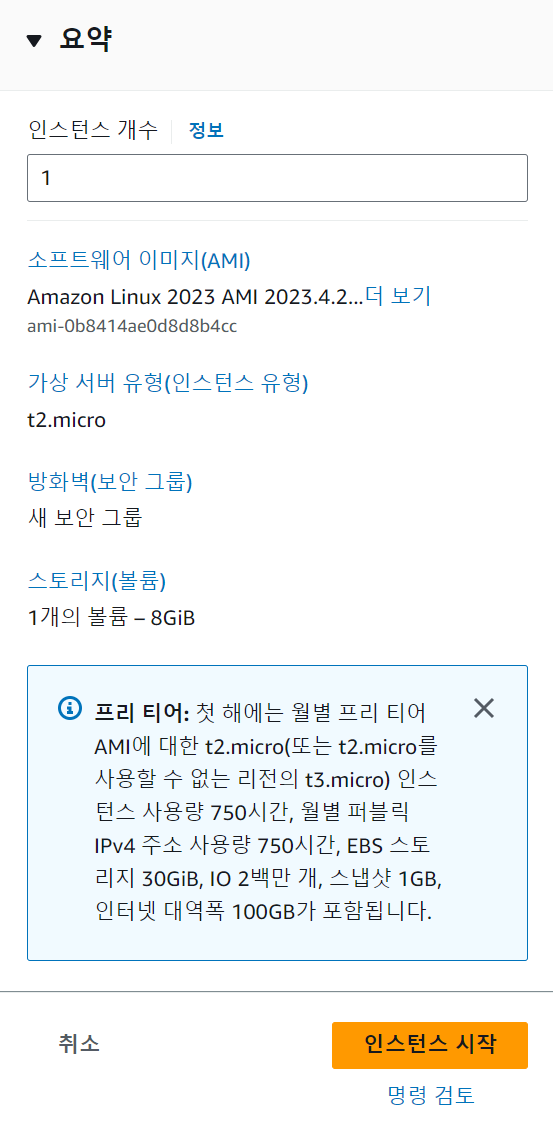
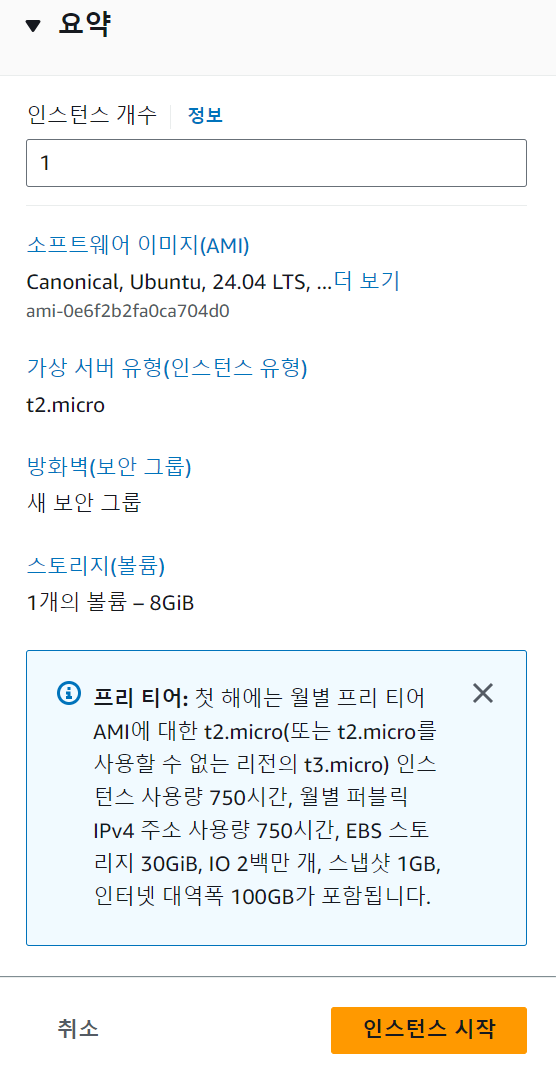
240607 [Add] Add cicd posts

diff --git a/_posts/cicd/docker/2024-06-07-docker_github_action.md b/_posts/cicd/docker/2024-06-07-docker_github_action.md
@@ -1,10 +1,218 @@
 ---
-title: Docker - Docker와 ec2로 스프링부트 자동배포
-date: 2024-06-07 09:25:00 +09:00
+title: Docker - GitAction과 Docker를 이용한 Spring Boot EC2 자동 배포
+date: 2024-06-07 12:00:00 +09:00
 categories: [CI/CD, Docker]
 tags:
-  [ CI/CD, Docker, AWS EC2, Spring Boot ]
+  [ CI/CD, Docker, AWS EC2, Spring Boot, Git Action ]
 ---
 
+## Ⅰ. Docker 레포지토리 생성
 
+도커 이미지를 빌드하고 ec2 서버로 가져오기 위해 docker hub 레포지토리를 생성
 
+### 1. 레포지토리 생성 버튼 클릭
+
+![01](/assets/img/post/cicd/docker/docker_githubactions/01.png)
+
+### 2. 레포지토리 이름 입력
+
+![02](/assets/img/post/cicd/docker/docker_githubactions/02.png)
+
+### 3. 레포지토리 생성 학인
+
+![03](/assets/img/post/cicd/docker/docker_githubactions/03.png)
+
+---
+<br>
+
+## Ⅰ. EC2 서버 세팅
+
+### 1. EC2 인스턴스 생성
+
+인스턴스 생성은 아래 포스트를 참고
+
+[AWS EC2 인스턴스 생성](https://koneweekk.github.io/posts/ec2_instance/)
+
+---
+
+### 2. Docker 설치
+
+Docker 사용을 위해 서버에 Docker를 설치
+
+- apt-get 업데이트
+
+```
+sudo apt-get update
+```
+
+- 도커 설치
+
+```
+sudo apt-get install docker.io
+```
+
+- 도커 실행
+
+```
+sudo service docker start
+```
+
+---
+
+### 3. 인바운드 포트 열어주기
+
+인스턴스가 활용 중인 보안 그룹으로 접근
+
+![05](/assets/img/post/cicd/docker/docker_githubactions/05.png)
+
+![04](/assets/img/post/cicd/docker/docker_githubactions/04.png)
+
+외부에서 서버에서 접근을 허용해주기 위해 ssh 포트와 스프링부트 실행 포트를 인바운드 포트에 추가
+
+![06](/assets/img/post/cicd/docker/docker_githubactions/06.png)
+
+---
+<br>
+
+## Ⅲ. Git Actions 세팅
+
+### 1. 깃액션 설정 yml 생성
+
+루트폴더/.github/workflows 경로에 yml 파일 생성
+
+```yml
+{% raw %}
+name: Java CI with Gradle
+
+# 동작 조건 설정 : main 브랜치에 push 혹은 pull request가 발생할 경우 동작한다.
+on:
+  push:
+    branches: [ "main" ]
+  pull_request:
+    branches: [ "main" ]
+
+permissions:
+  contents: read
+
+jobs:
+  # Spring Boot 애플리케이션을 빌드하여 도커허브에 푸시하는 과정
+  build-docker-image:
+    runs-on: ubuntu-latest
+    steps:
+    - uses: actions/checkout@v3
+
+    # Java 17 세팅
+    - name: Set up JDK 17
+      uses: actions/setup-java@v3
+      with:
+        java-version: '17'
+        distribution: 'temurin'
+    
+    # properties 파일 생성
+    - name: Make application.properties
+      run: |
+          cd ./src/main/resources
+          touch ./application.properties
+          echo "${{ secrets.PROPERTIES }}" > ./application.properties
+      shell: bash
+
+    # Spring Boot 애플리케이션 빌드
+    - name: Build with Gradle
+      uses: gradle/gradle-build-action@67421db6bd0bf253fb4bd25b31ebb98943c375e1
+      with:
+        arguments: clean bootJar
+
+    # Docker 이미지 빌드
+    - name: docker image build
+      run: docker build -t ${{ secrets.DOCKER_USERNAME }}/${{ secrets.DOCKER_REPO }} .
+
+    # DockerHub 로그인
+    - name: docker login
+      uses: docker/login-action@v2
+      with:
+        username: ${{ secrets.DOCKER_USERNAME }}
+        password: ${{ secrets.DOCKER_PASSWORD }}
+
+    # Docker Hub 이미지 푸시
+    - name: docker Hub push
+      run: docker push ${{ secrets.DOCKER_USERNAME }}/${{ secrets.DOCKER_REPO }}
+
+    # ec2 서버에 도커 컨테이너 실행
+    - name: Image pull and run
+      uses: appleboy/ssh-action@master
+      with:
+        host: ${{ secrets.EC2_HOST }}
+        username: ${{ secrets.EC2_USERNAME }}
+        key: ${{ secrets.EC2_KEY }}
+        port: ${{ secrets.EC2_SSH_PORT }}
+        script: |
+          sudo docker login -u ${{ secrets.DOCKER_USERNAME }} -p ${{ secrets.DOCKER_PASSWORD }}
+          sudo docker stop ${{ secrets.DOCKER_CONTAINER }}
+          sudo docker container rm ${{ secrets.DOCKER_CONTAINER }}
+          sudo docker image rm ${{ secrets.DOCKER_USERNAME }}/${{ secrets.DOCKER_REPO }}
+          sudo docker pull ${{ secrets.DOCKER_USERNAME }}/${{ secrets.DOCKER_REPO }}
+          sudo docker run -d --name ${{ secrets.DOCKER_CONTAINER }} -p ${{ secrets.DOCKER_PORT }}:${{ secrets.DOCKER_PORT }} ${{ secrets.DOCKER_USERNAME }}/${{ secrets.DOCKER_REPO }}
+{% endraw %}
+```
+
+push 혹은 pull request시 실행되는 프로세스들을 정의
+- 스프링 프로젝트 빌드
+- docker 이미지 빌드
+- docker hub에 이미지 푸쉬
+- ec2 서버에 도커 허브로부터 이미지를 불러와 도커 컨테이너 실행
+
+---
+
+### 2. Git Secret 설정
+
+위 코드의 이중괄호 안에 쓰인 `secrets.변수명`의 값들은 깃헙 SECRET에서 설정을 해줘야한다.
+
+![07](/assets/img/post/cicd/docker/docker_githubactions/07.png)
+
+![08](/assets/img/post/cicd/docker/docker_githubactions/08.png)
+
+#### PROPERTIES
+
+스프링부트의 application.properties 파일의 내용을 말한다.
+- 설정 파일의 특성상 보안이 중요한 내용도 추가되므로 secret에 접근하여 파일 생성
+- `echo` 명령어는 덮어쓰기이기 때문에 모든 코드를 붙여넣어야한다.
+
+#### DOCKER 관련 설정들
+
+`DOCKER_USERNAME` : Docker 로그인 시 사용자명
+
+`DOCKER_PASSWORD` : Docker 로그인 시 비밀번호
+
+`DOCKER_REPO` : 푸쉬하고자 하는 도커 허브 레포지토리, 아까 생성한 레포지토리 이름을 입력하면 된다.
+
+`DOCKER_CONTAINER` : ec2에서 실행될 도커 컨테이너의 이름
+
+`DOCKER_PORT` : 도커 컨테이너로 접근할 수 있는 포트 번호, 앞에서 인바운드로 열어준 포트번호를 입력
+
+#### EC2 관련 설정
+
+`EC2_HOST` : ec2 인스턴스의 ip주소를 입력
+
+![09](/assets/img/post/cicd/docker/docker_githubactions/09.png)
+
+`EC2_USERNAME` : ec2 인스턴스의 사용자명, AMI로 ubuntu를 선택했다면 기본값은 ubuntu
+
+![10](/assets/img/post/cicd/docker/docker_githubactions/10.png)
+
+`EC2_KEY` : ssh 보안 키를 입력. 다운받은 .pem 파일을 메모장으로 열어서 '모든 내용'을 복붙하면 된다.
+
+`EC2_SSH_PORT` : ssh 연결 포트. 보통은 22 이다.
+
+---
+
+### 3. 배포 확인
+
+이제 변경된 내용을 git push 해보자
+
+![11](/assets/img/post/cicd/docker/docker_githubactions/11.png)
+
+위와 같이 나오면 빌드가 성공된 것이다.
+
+![12](/assets/img/post/cicd/docker/docker_githubactions/12.png)
+
+ec2의 ip주소와 설정한 포트로 접근하면 컨트롤러에 설정해놓은 홈화면이 잘 뜨는 것을 확인할 수 있다.

diff --git a/_posts/cicd/aws/2024-06-07-ec2_instance.md b/_posts/cicd/aws/2024-06-07-ec2_instance.md
@@ -16,13 +16,9 @@ tags:
 
 ### 2. AMI(Amazon Machine Image) 선택
 
-- 이 글에선 Amazon Linux를 선택
+- 이 글에선 ubuntu를 선택
 
 ![02](/assets/img/post/cicd/aws/ec2-instance/02.png)
-
-- 프리티어를 사용할 것이므로 지원 여부를 잘 확인
-
-![03](/assets/img/post/cicd/aws/ec2-instance/03.png)
 
 ---
 

diff --git a/_posts/frontend/vue/2024-06-03-vue_grammer_basic.md b/_posts/frontend/vue/2024-06-03-vue_grammer_basic.md
@@ -156,6 +156,7 @@ v-접두사가 있는 특수 속성에는 값을 할당 할 수 있음
 
 
 ```html
+{% raw %}
 <div id="app">
   <h2>1. String</h2>
 
@@ -212,6 +213,7 @@ v-접두사가 있는 특수 속성에는 값을 할당 할 수 있음
       },
     }
   })
+{% raw %}
 </script>
 ```
 
